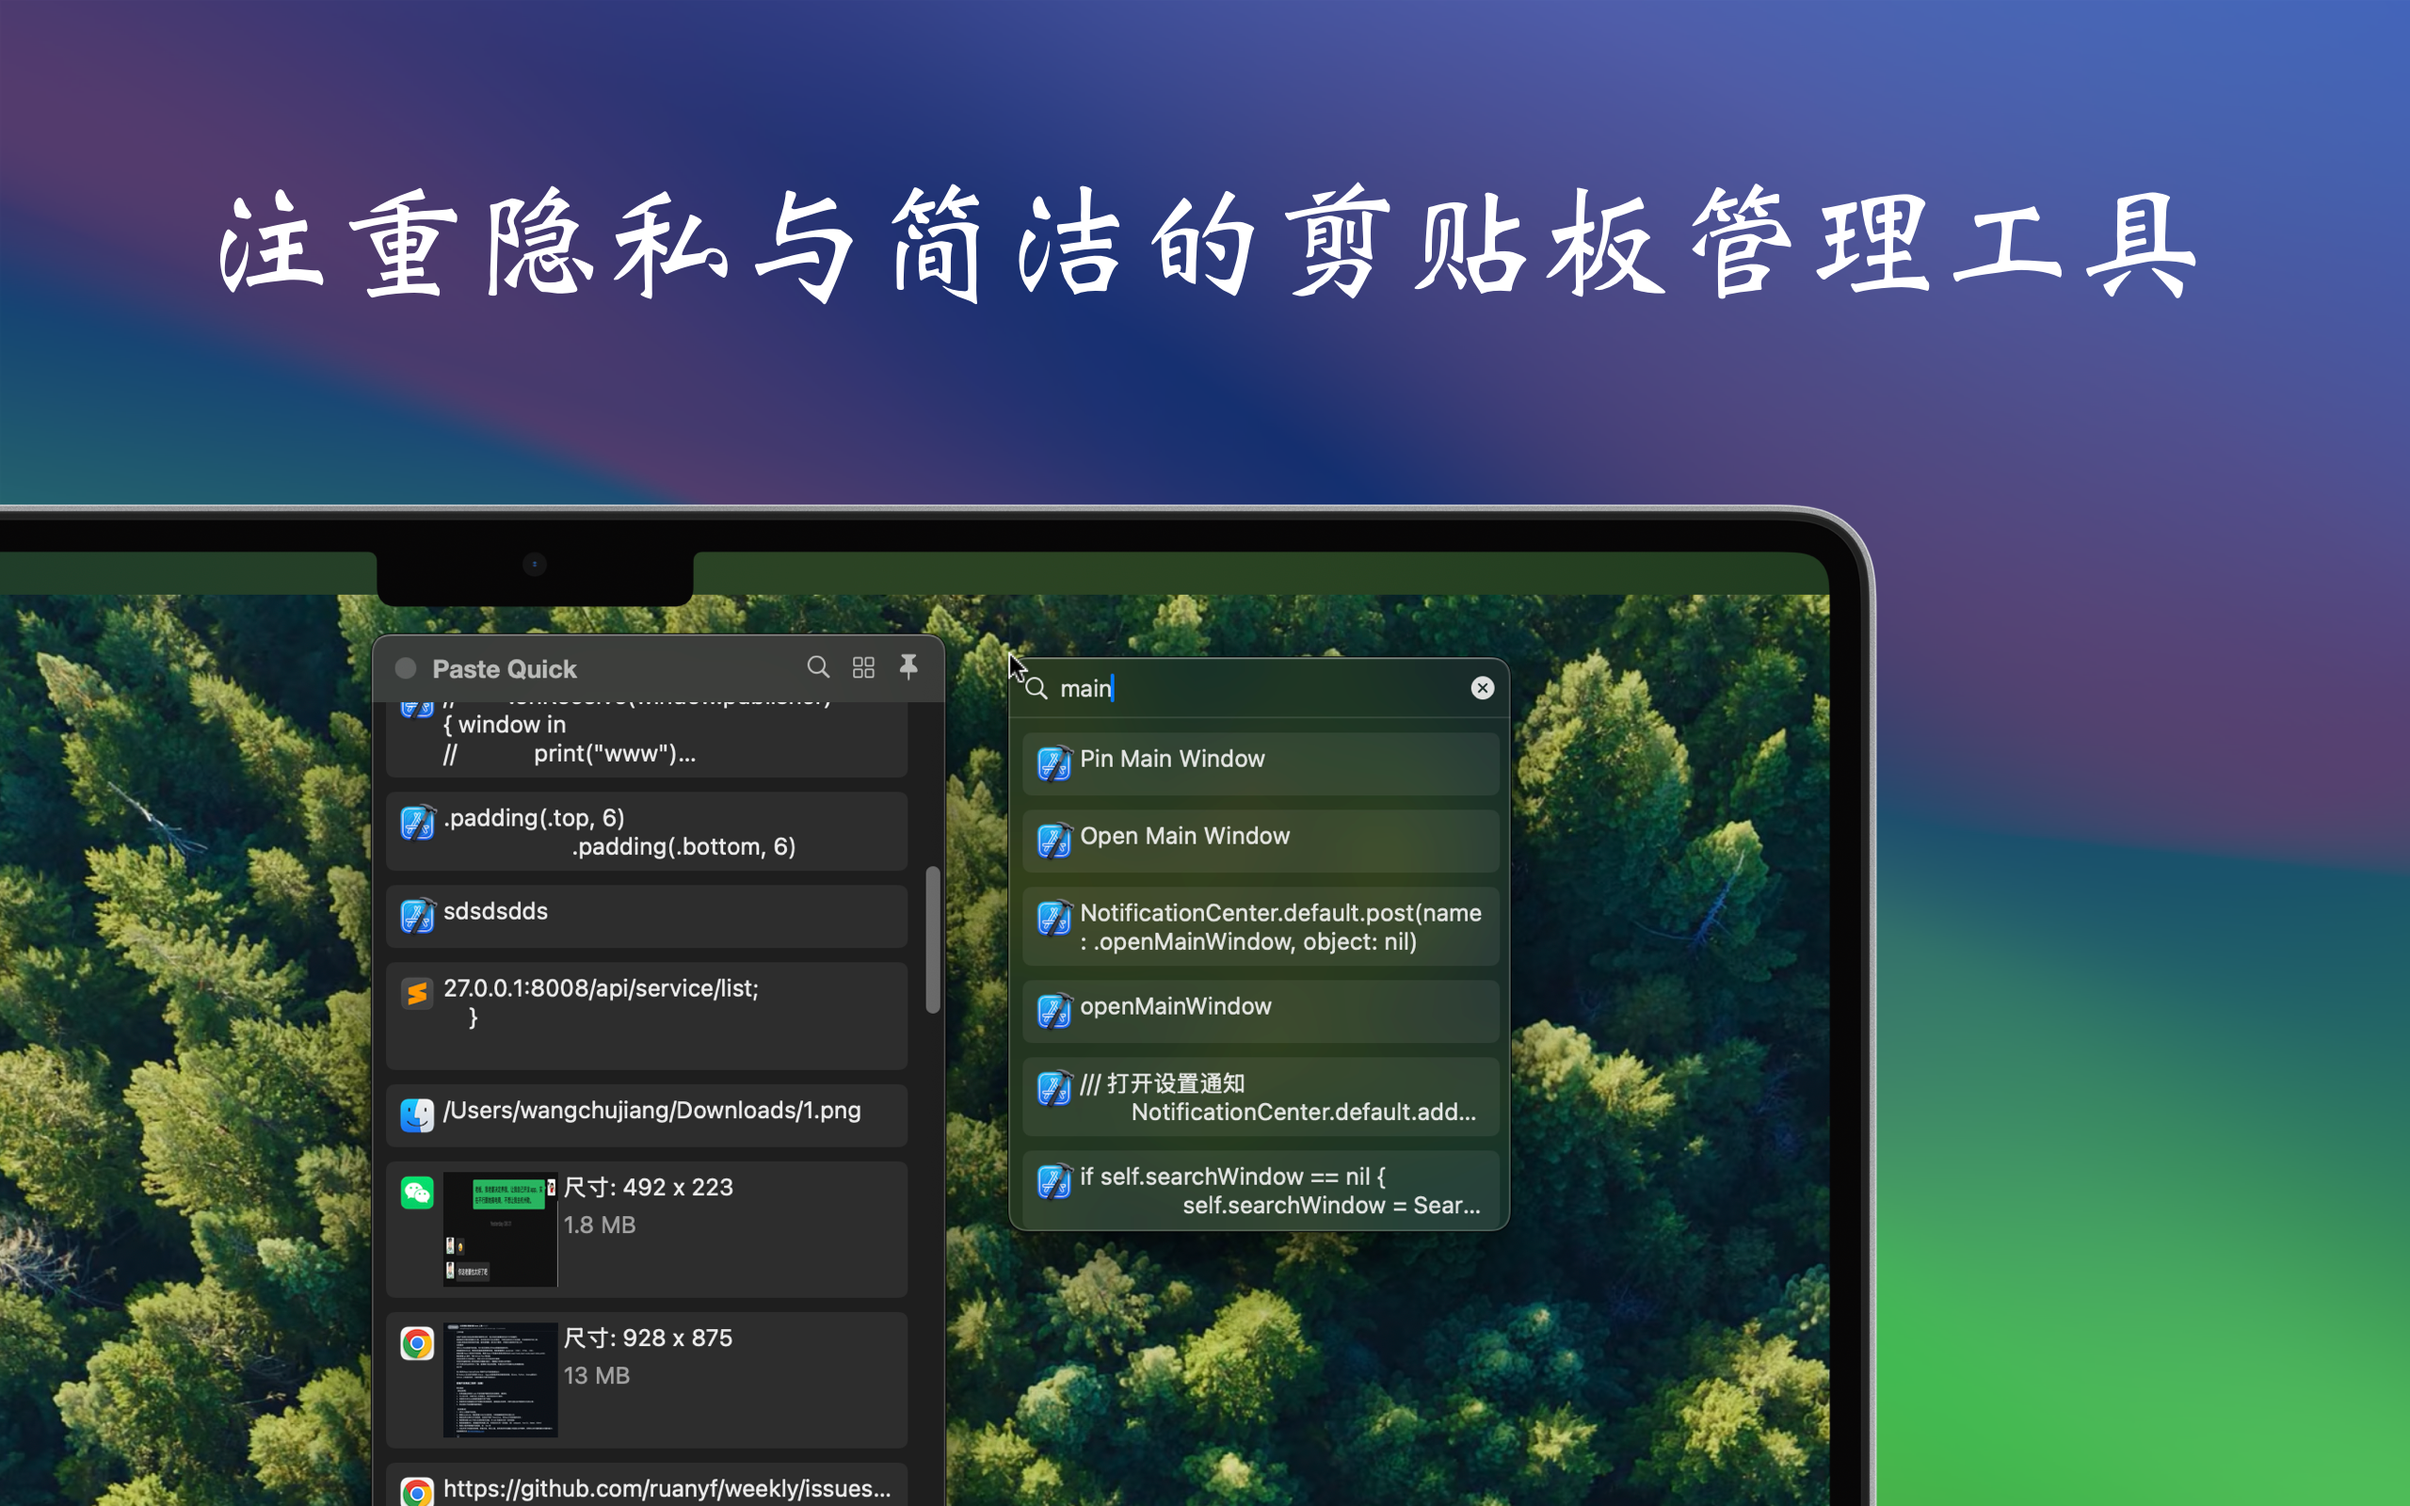
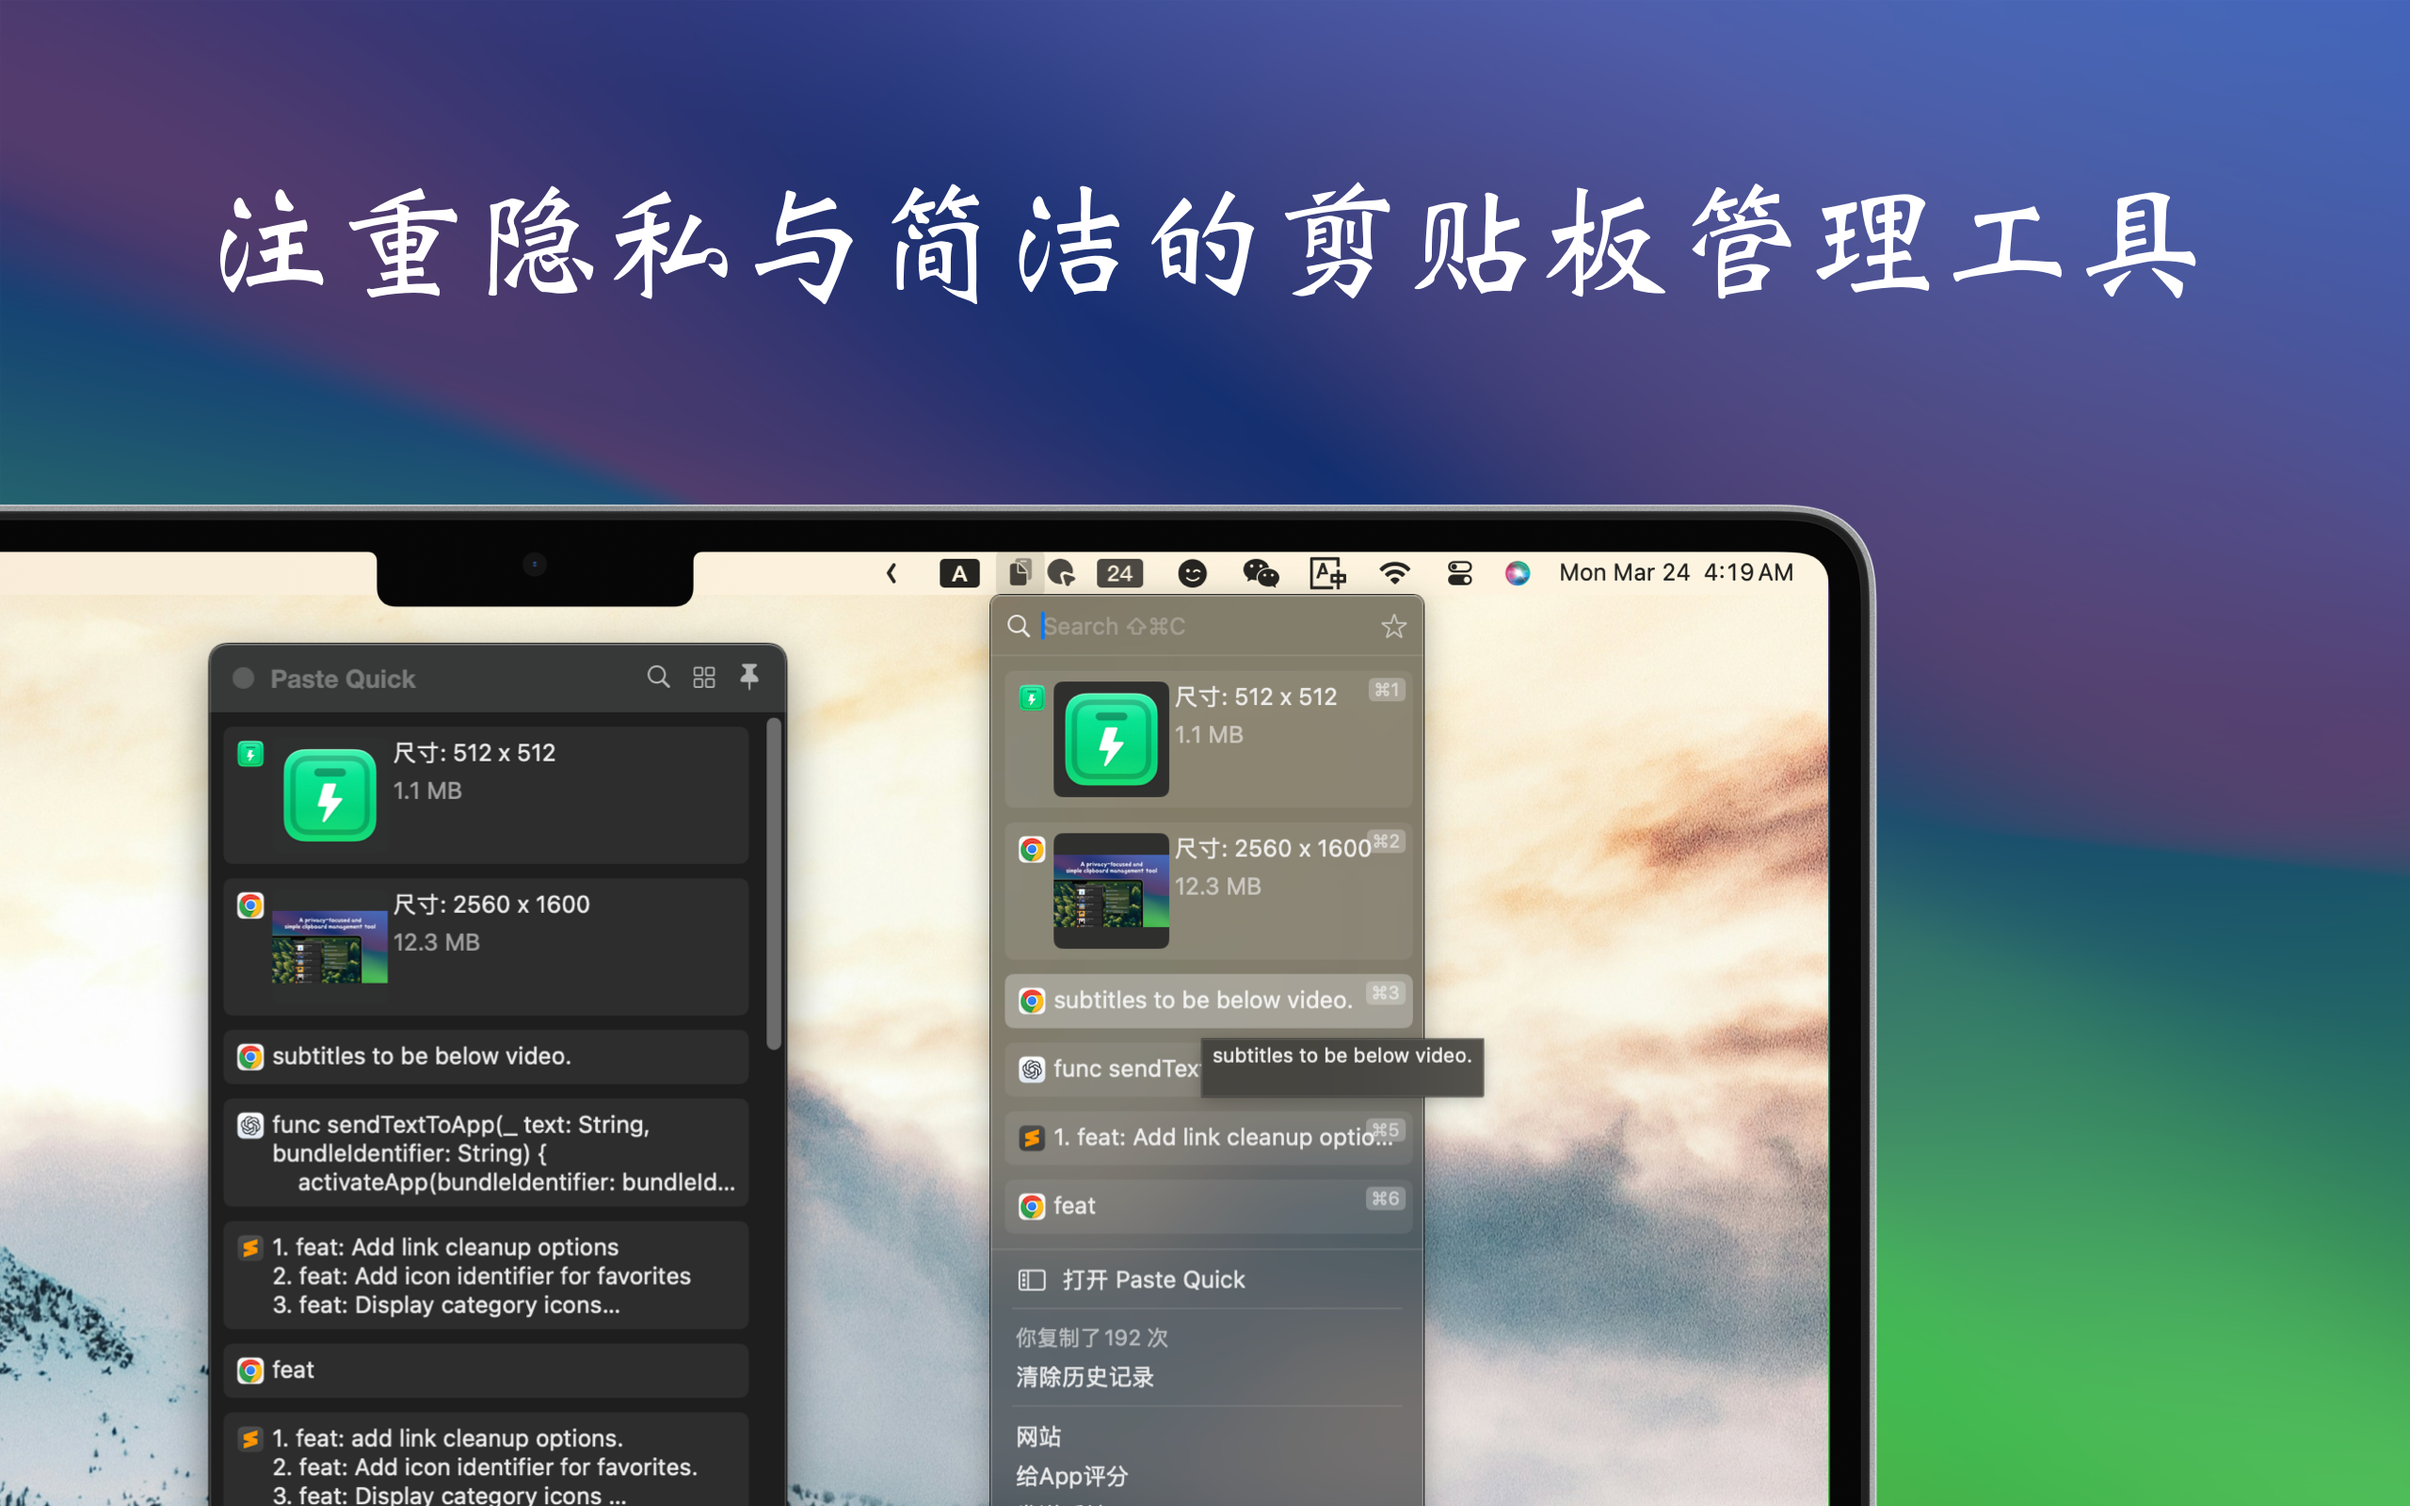
released v1.6.0

diff --git a/CHANGELOG.md b/CHANGELOG.md
@@ -1,0 +1,51 @@
+Changelog
+===
+
+<a target="_blank" href="https://apps.apple.com/app/videoer/6742680573" title="Videoer for macOS">
+<img alt="Videoer AppStore" src="https://jaywcjlove.github.io/sb/download/macos.svg" height="51">
+</a>
+
+## [v1.6.0](https://github.com/jaywcjlove/paste-quick/releases/tag/v1.6.0)
+
+1. feat: Add link cleanup options
+2. feat: Add icon identifier for favorites
+3. feat: Display category icons
+4. feat: Add data display prompt
+5. feat: Add search to menu bar
+6. fix: fix issue with copying HTML data
+
+---
+
+1. feat: 新增链接清理选项
+2. feat: 为收藏添加图标标识
+3. feat: 显示分类图标
+4. feat: 新增数据展示提示
+5. feat: 在菜单栏添加搜索
+6. fix: 修复复制 HTML 数据的问题
+
+## [v1.5.0](https://github.com/jaywcjlove/paste-quick/releases/tag/v1.5.0)
+
+1. fix: Fix issue with checking the existence of receipts.
+2. chore: Optimize app command menu.
+3. feat: Update about page content.
+
+---
+
+1. 修复：修复检查收据存在问题。
+2. 优化：优化应用命令菜单。
+3. 新增：更新关于页面内容。
+
+
+## [v1.4.0](https://github.com/jaywcjlove/paste-quick/releases/tag/v1.4.0)
+
+1. feat: Add setting to clear history on exit.
+2. feat: Add save duration & limit for data retention.
+3. fix: Fix issue with category localized switch.
+4. fix: Resolve issue with saving invisible text settings.
+
+----
+
+1. 新增: 添加退出时清除历史记录的设置。
+2. 新增: 添加数据保存期限和数量限制功能。
+3. 修复: 修复类别切换的本地化问题。
+4. 修复: 修复保存隐藏文本设置的问题。
